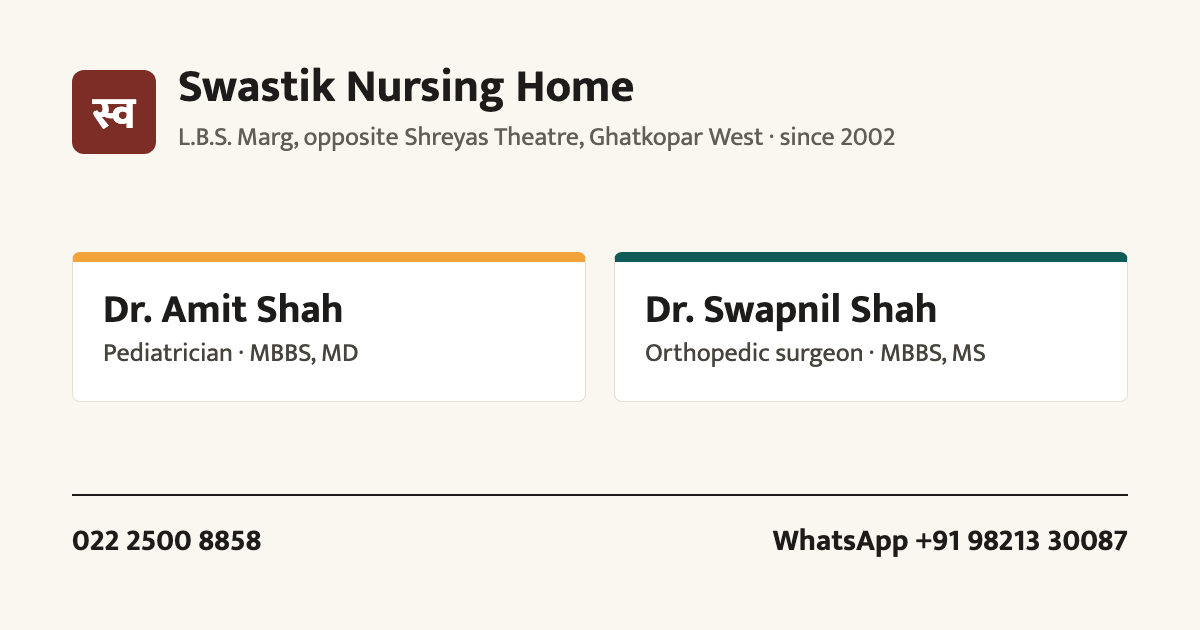
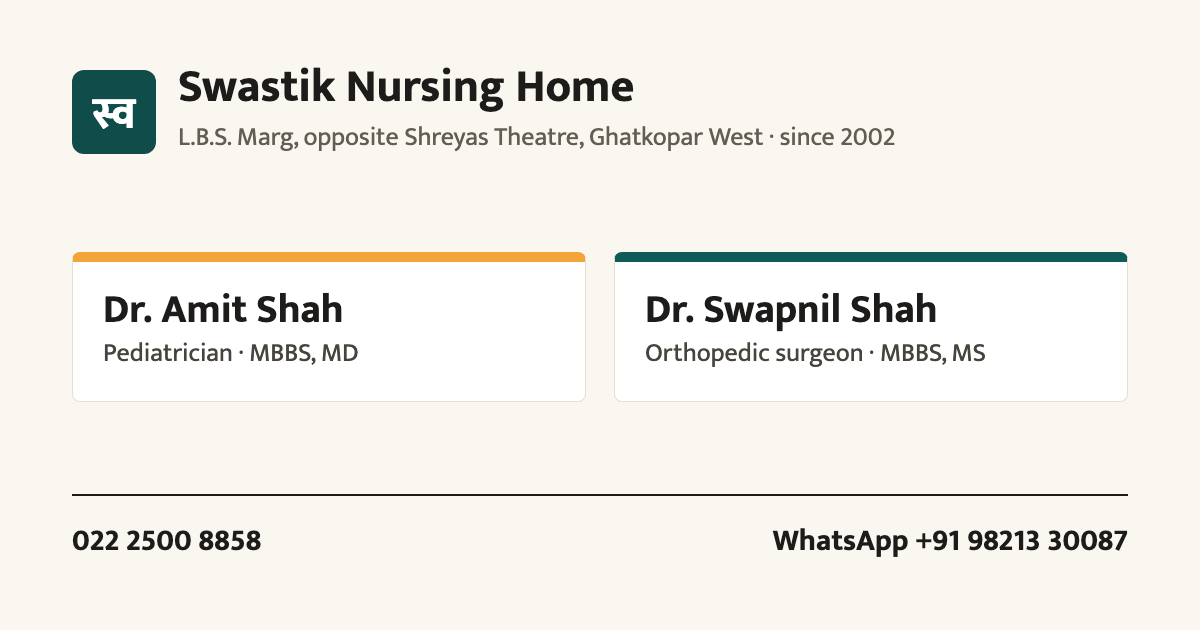
feat: self-drawing kolam behind hero portraits; drop red accent for teal/marigold

Changed region(s): [[0.0617, 0.0905, 0.1542, 0.2714]]

diff --git a/src/styles/site.css b/src/styles/site.css
@@ -19,7 +19,6 @@
   --marigold: #eda432;
   --marigold-ink: #7f4500;
   --marigold-tint: #fbe7c3;
-  --kumkum: #b23f2c;
   --wa: #075e54;
   --alert: #9f2419;
   --alert-tint: #fbe9e4;
@@ -84,7 +83,7 @@ a:hover { text-decoration-thickness: 2px; }
 
 .brand { display: inline-flex; align-items: center; gap: 0.75rem; text-decoration: none; }
 .brand-mark {
-  width: 2.75rem; height: 2.75rem; flex: none; border-radius: 12px; background: var(--kumkum); color: #fff;
+  width: 2.75rem; height: 2.75rem; flex: none; border-radius: 12px; background: var(--teal); color: #fff;
   display: grid; place-items: center; font: 1.375rem/1 var(--serif); padding-top: 0.3rem;
 }
 .brand-name { display: block; font: 1.375rem/1.05 var(--serif); }
@@ -133,7 +132,7 @@ a:hover { text-decoration-thickness: 2px; }
 .hero-grid { display: grid; gap: clamp(2.5rem, 5vw, 4rem); grid-template-columns: 1fr; align-items: center; }
 @media (min-width: 960px) { .hero-grid { grid-template-columns: 1.05fr 1fr; } }
 .kicker { display: inline-flex; align-items: center; gap: 0.625rem; font-weight: 600; color: var(--ink-2); margin-bottom: 1.25rem; }
-.kicker::before { content: ''; width: 0.625rem; height: 0.625rem; border-radius: 50%; background: var(--kumkum); }
+.kicker::before { content: ''; width: 0.625rem; height: 0.625rem; border-radius: 50%; background: var(--marigold); }
 .hero h1 { max-width: 17ch; font-size: clamp(2.375rem, 4.4vw, 3.75rem); }
 :lang(hi) .hero h1 { max-width: 16ch; }
 .hero .lede { margin-top: 1.5rem; }
@@ -162,7 +161,7 @@ a:hover { text-decoration-thickness: 2px; }
 /* ── Sections ───────────────────────────────────────────── */
 .section { padding: clamp(3.5rem, 8vw, 6.5rem) 0; }
 .section.alt { background: var(--cream-2); }
-.eyebrow { font-size: 0.8125rem; font-weight: 700; letter-spacing: 0.12em; text-transform: uppercase; color: var(--kumkum); margin-bottom: 0.875rem; }
+.eyebrow { font-size: 0.8125rem; font-weight: 700; letter-spacing: 0.12em; text-transform: uppercase; color: var(--teal-2); margin-bottom: 0.875rem; }
 :lang(hi) .eyebrow { letter-spacing: 0; font-size: 0.9375rem; }
 .section-head { display: flex; flex-wrap: wrap; align-items: end; justify-content: space-between; gap: 1rem 2rem; margin-bottom: clamp(2rem, 4vw, 3rem); }
 .section-head p { color: var(--ink-2); max-width: 32rem; }
@@ -356,3 +355,30 @@ a:hover { text-decoration-thickness: 2px; }
 
 .page-head.ortho .tag { background: var(--teal); color: #fff; }
 .next-due .btn-wa { background: #fff; color: var(--wa); }
+
+/* ── Hero kolam: draws itself, then turns slowly ────────── */
+.portraits { position: relative; }
+.portraits figure { position: relative; z-index: 1; animation: rise 0.9s cubic-bezier(0.2, 0.7, 0.2, 1) both; }
+.portraits figure:nth-of-type(1) { animation-delay: 0.9s; }
+.portraits figure:nth-of-type(2) { animation-delay: 1.15s; }
+.kolam-art {
+  position: absolute; z-index: 0; left: 50%; top: 50%; width: 132%; max-width: 46rem; aspect-ratio: 1;
+  translate: -50% -50%; overflow: visible; pointer-events: none;
+}
+.kolam-art path {
+  fill: none; stroke: var(--marigold); stroke-width: 0.55; stroke-linecap: round; stroke-linejoin: round;
+  stroke-dasharray: 1; stroke-dashoffset: 1; opacity: 0.7;
+  animation: draw 1.4s cubic-bezier(0.45, 0, 0.2, 1) forwards; animation-delay: calc(var(--i) * 45ms);
+}
+.kolam-art .dot { fill: var(--teal-2); opacity: 0; animation: pop 0.4s ease-out forwards; animation-delay: calc(0.6s + var(--i) * 40ms); }
+.kolam-spin { transform-origin: 0 0; animation: spin 160s linear 2.6s infinite; }
+@keyframes draw { to { stroke-dashoffset: 0; } }
+@keyframes pop { from { opacity: 0; transform: scale(0); } to { opacity: 0.9; transform: scale(1); } }
+@keyframes spin { to { transform: rotate(360deg); } }
+@keyframes rise { from { opacity: 0; transform: translateY(28px); } }
+.kolam-art .dot { transform-box: fill-box; transform-origin: center; }
+@media (max-width: 959px) { .kolam-art { width: 118%; } }
+@media (prefers-reduced-motion: reduce) {
+  .kolam-art path { stroke-dashoffset: 0; }
+  .kolam-art .dot { opacity: 0.9; }
+}

diff --git a/src/components/Kolam.jsx b/src/components/Kolam.jsx
@@ -1,0 +1,48 @@
+// Hero signature: a rangoli/kolam rosette that draws itself on load (CSS only, see .kolam-art in site.css).
+// Every stroke is a <path pathLength="1"> so one dash animation works for all shapes.
+const TAU = Math.PI * 2
+const at = (r, a) => [r * Math.cos(a), r * Math.sin(a)].map((n) => n.toFixed(2))
+const circle = (cx, cy, r) => `M${cx - r} ${cy}a${r} ${r} 0 1 0 ${2 * r} 0a${r} ${r} 0 1 0 ${-2 * r} 0`
+
+// Scalloped ring: radius wobbles `lobes` times around the circle.
+const ring = (r, amp, lobes) =>
+  Array.from({ length: 241 }, (_, i) => {
+    const t = (i / 240) * TAU
+    const [x, y] = at(r + amp * Math.sin(lobes * t), t)
+    return `${i ? 'L' : 'M'}${x} ${y}`
+  }).join('') + 'Z'
+
+const petals = Array.from({ length: 8 }, (_, k) => k * 45)
+const outer = Array.from({ length: 12 }, (_, k) => (k / 12) * TAU)
+
+const strokes = [
+  ...petals.map((deg) => ({ d: 'M0 0C18 -22 52 -20 64 0C52 20 18 22 0 0Z', rot: deg })),
+  ...petals.map((deg) => ({ d: 'M0 0C10 -10 26 -10 32 0C26 10 10 10 0 0Z', rot: deg + 22.5 })),
+  { d: ring(78, 2.2, 36) },
+  { d: circle(0, 0, 88) },
+  ...outer.map((a) => {
+    const [x, y] = at(97, a)
+    return { d: circle(+x, +y, 5) }
+  }),
+]
+
+export default function Kolam() {
+  return (
+    <svg className="kolam-art" viewBox="-110 -110 220 220" aria-hidden="true" focusable="false">
+      <g className="kolam-spin">
+        {strokes.map((s, i) => (
+          <path key={i} d={s.d} pathLength="1" transform={s.rot ? `rotate(${s.rot})` : undefined} style={{ '--i': i }} />
+        ))}
+        {outer.map((a, i) => {
+          const [x, y] = at(97, a)
+          return <circle key={`d${i}`} className="dot" cx={x} cy={y} r="1.3" style={{ '--i': i }} />
+        })}
+        {petals.map((deg, i) => {
+          const [x, y] = at(46, (deg * Math.PI) / 180 + Math.PI / 8)
+          return <circle key={`c${i}`} className="dot" cx={x} cy={y} r="1.2" style={{ '--i': i + 6 }} />
+        })}
+        <circle className="dot" r="2" style={{ '--i': 0 }} />
+      </g>
+    </svg>
+  )
+}

diff --git a/src/pages/Home.jsx b/src/pages/Home.jsx
@@ -5,6 +5,7 @@ import { langOf, useT } from '../lib/i18n.js'
 import { directionsHref, mapEmbedSrc, telHref, waHref } from '../lib/links.js'
 import { clinicLd, doctorLd, faqLd, seo } from '../lib/seo.js'
 import { BookButtons, DoctorPanel, Portrait } from '../components/Doctor.jsx'
+import Kolam from '../components/Kolam.jsx'
 import { HoursTable, OpenStatus } from '../components/Hours.jsx'
 import { PhoneIcon, PinIcon, WhatsAppIcon } from '../components/Icons.jsx'
 import { FaqList } from './Faq.jsx'
@@ -65,6 +66,7 @@ export default function Home() {
             </div>
           </div>
           <div className="portraits">
+            <Kolam />
             {doctors.map((d) => (
               <Portrait key={d.id} d={d} eager />
             ))}
